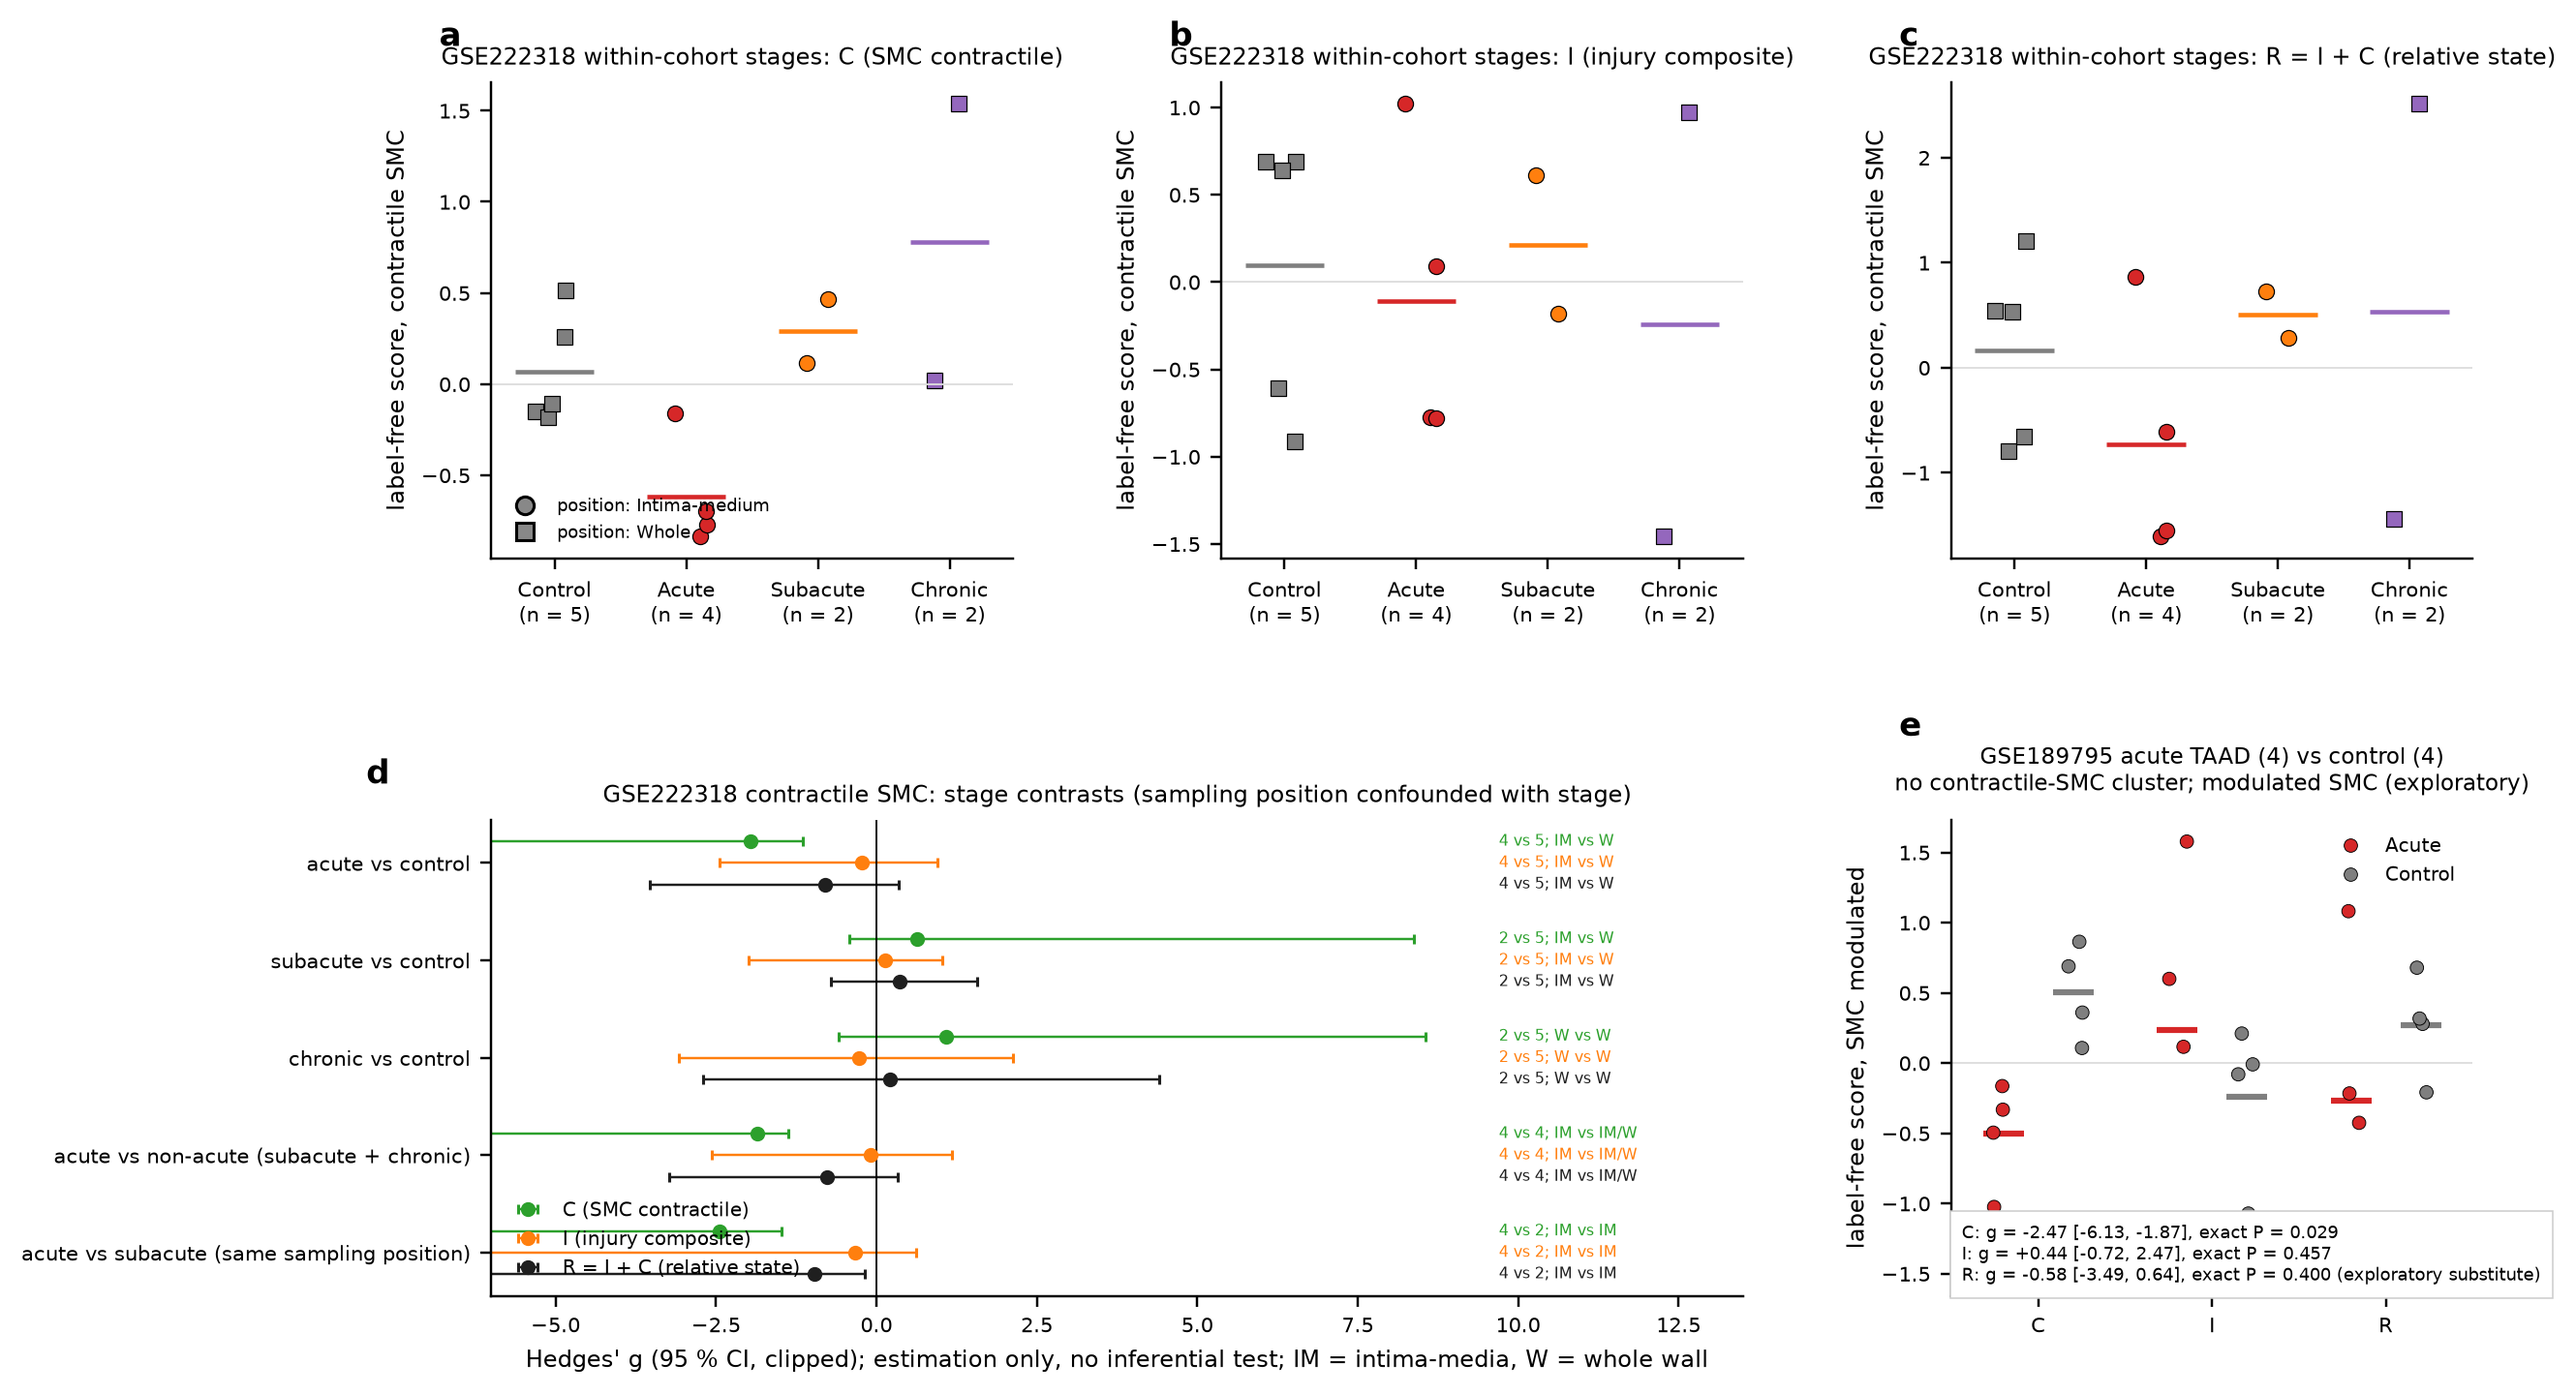
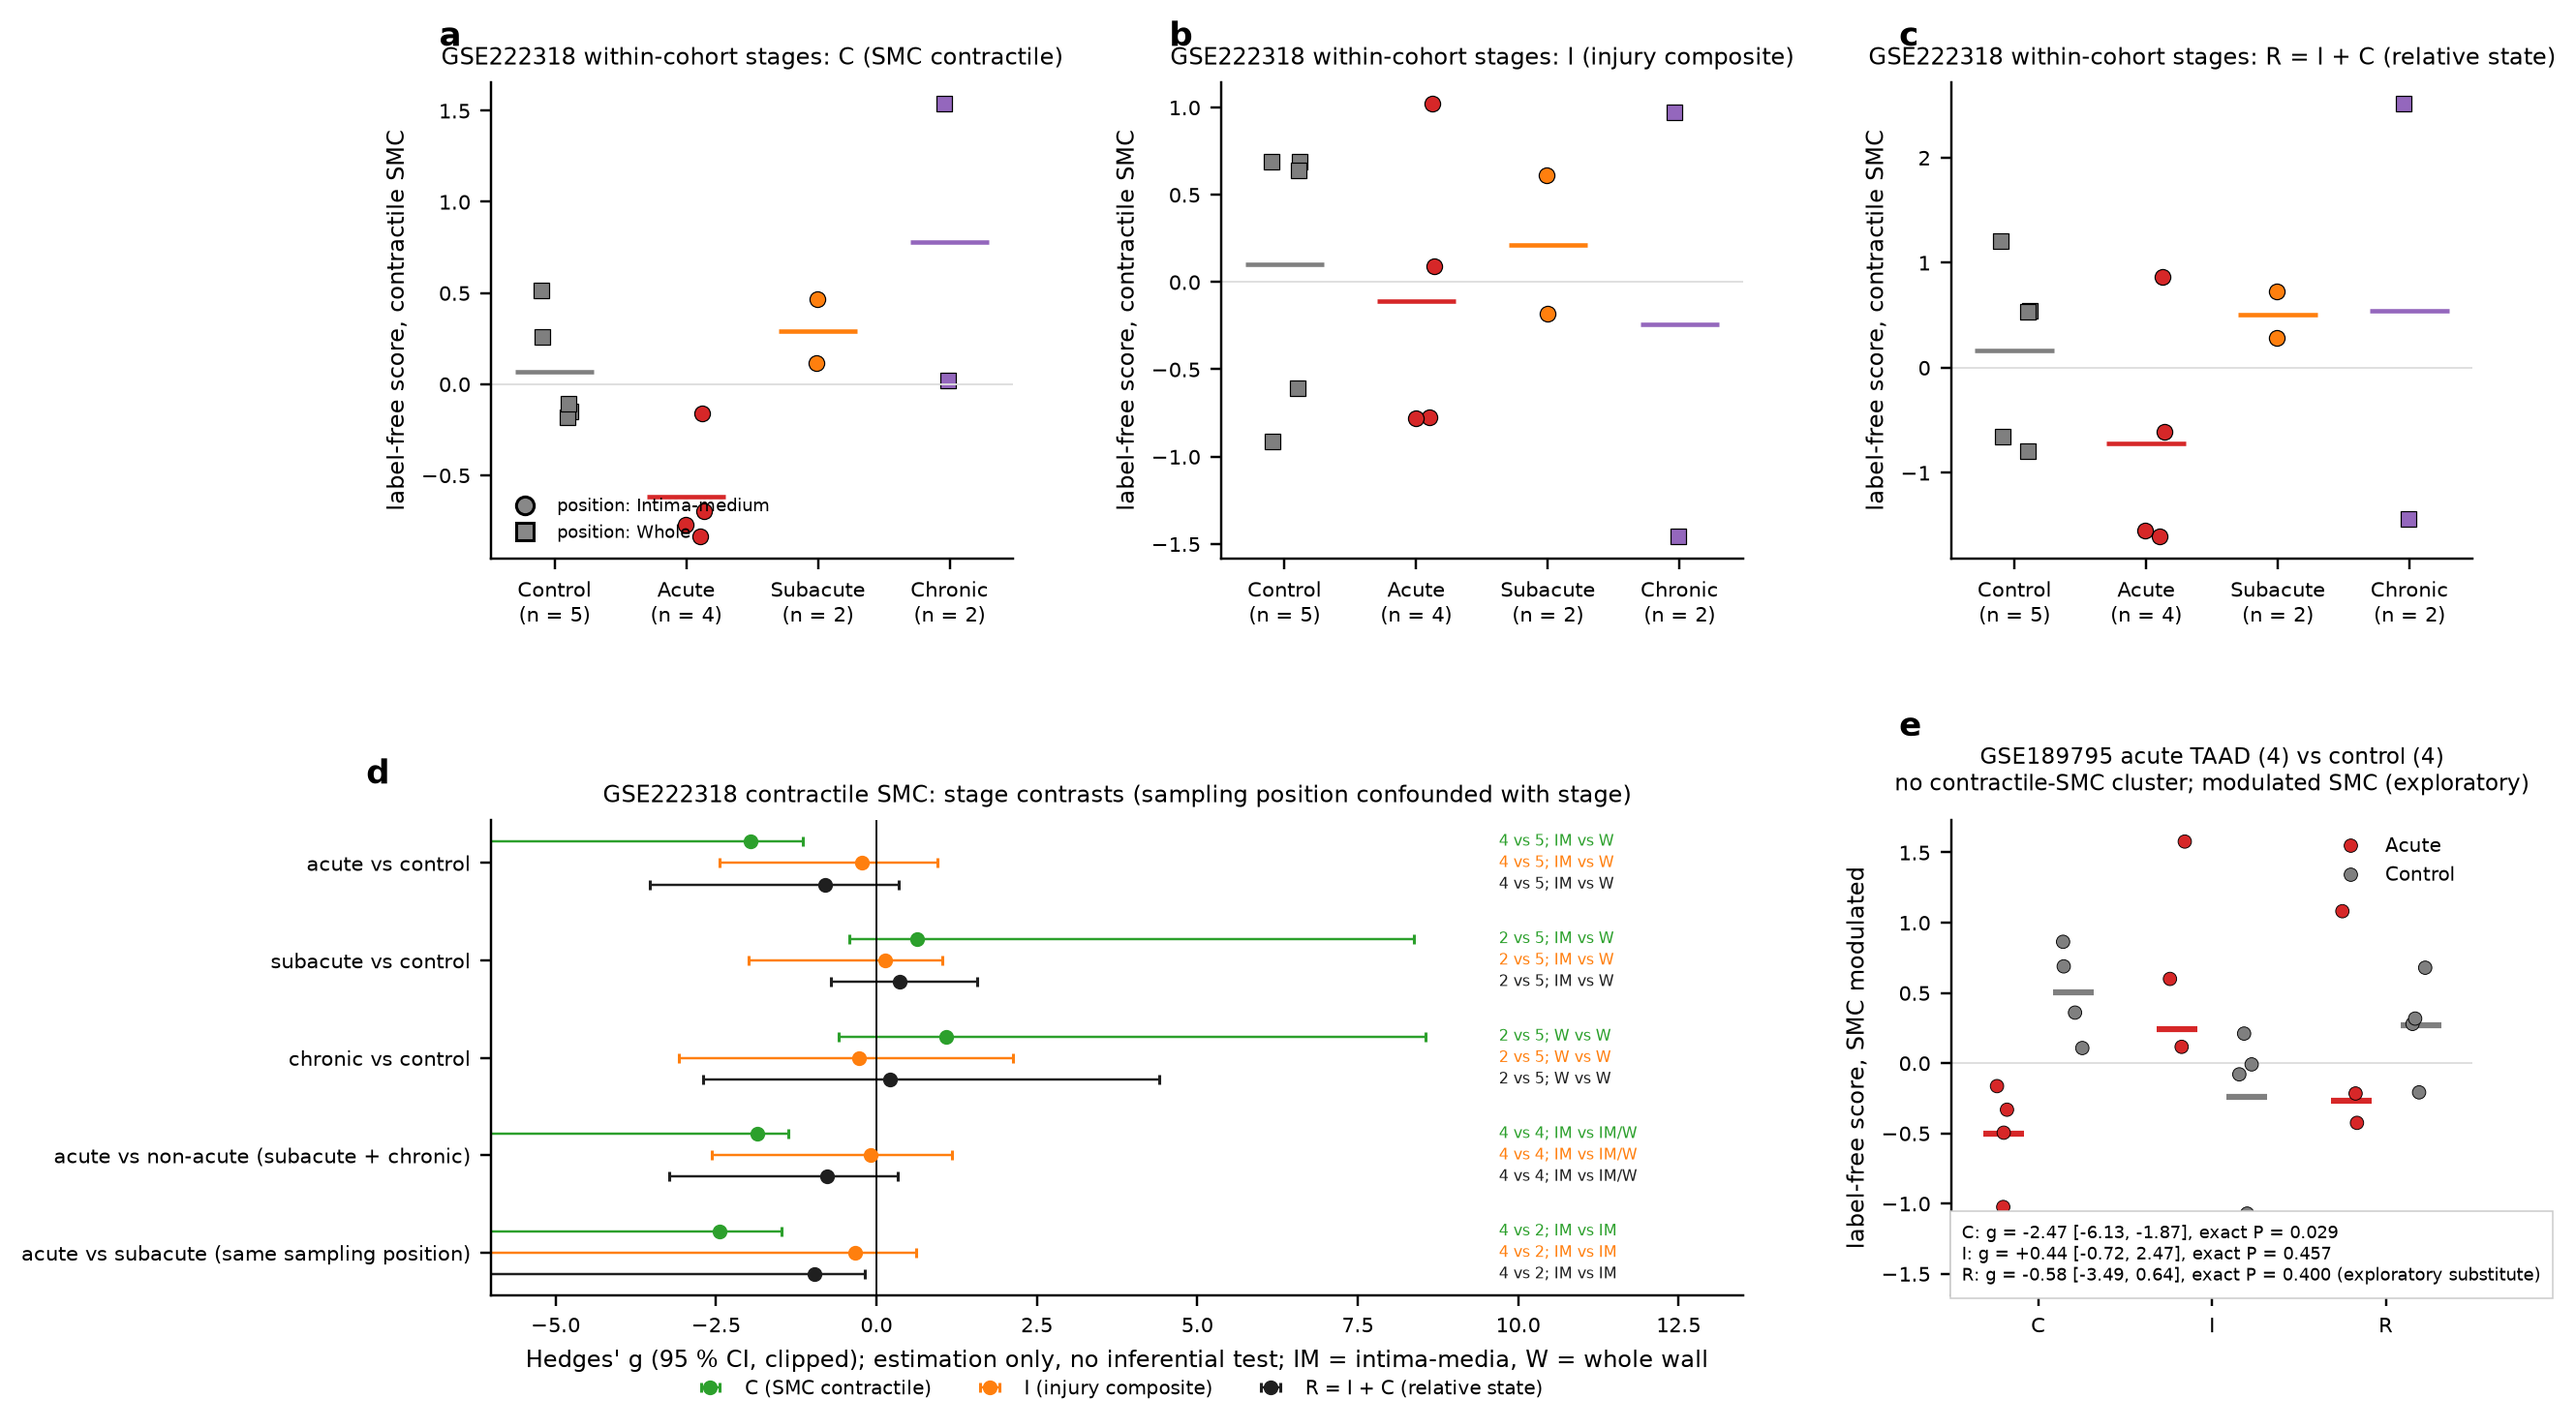
v2.1: Figure 4 legend placement
Claude-Session: https://claude.ai/code/session_01KQza2MfAdB8Fe4tbJHCnMX

diff --git a/scripts/24_figures_v2.py b/scripts/24_figures_v2.py
@@ -167,7 +167,7 @@ def fig4():
         dd = e[e.measure == k].set_index("contrast").reindex(cons); ax.errorbar(dd.g, y + off, xerr=[np.nan_to_num(dd.g - dd.ci_low), np.nan_to_num(dd.ci_high - dd.g)], fmt="o", color=col, ms=4, capsize=1.5, lw=0.8, label=LAB[k])
         for yi, (c, r) in zip(y + off, dd.iterrows()):
             if not np.isnan(r.g): ax.text(9.7, yi, f"{int(r.n_A)} vs {int(r.n_B)}; {r.positions_A} vs {r.positions_B}".replace("Intima-medium", "IM").replace("Whole", "W"), fontsize=5.3, va="center", color=col)
-    ax.axvline(0, color="k", lw=0.6); ax.set_yticks(y); ax.set_yticklabels([lab[c] for c in cons]); ax.set_xlim(-6, 13.5); ax.set_xlabel("Hedges' g (95 % CI, clipped); estimation only, no inferential test; IM = intima-media, W = whole wall"); ax.legend(frameon=False, fontsize=6.5, loc="lower left"); ax.set_title("GSE222318 contractile SMC: stage contrasts (sampling position confounded with stage)", fontsize=8)
+    ax.axvline(0, color="k", lw=0.6); ax.set_yticks(y); ax.set_yticklabels([lab[c] for c in cons]); ax.set_xlim(-6, 13.5); ax.set_xlabel("Hedges' g (95 % CI, clipped); estimation only, no inferential test; IM = intima-media, W = whole wall"); ax.legend(frameon=False, fontsize=6.5, loc="upper center", bbox_to_anchor=(0.5, -0.14), ncol=3); ax.set_title("GSE222318 contractile SMC: stage contrasts (sampling position confounded with stage)", fontsize=8)
     # (e) GSE189795: contractile SMC if recovered in >= 4 patients, otherwise modulated SMC as an exploratory substitute (primary test not estimable)
     ax = fig.add_subplot(gs[1, 2]); panel(ax, "e", 1.16)
     ct = "SMC_contractile" if (S2.celltype == "SMC_contractile").sum() >= 4 else "SMC_modulated"; d2 = S2[S2.celltype == ct]
